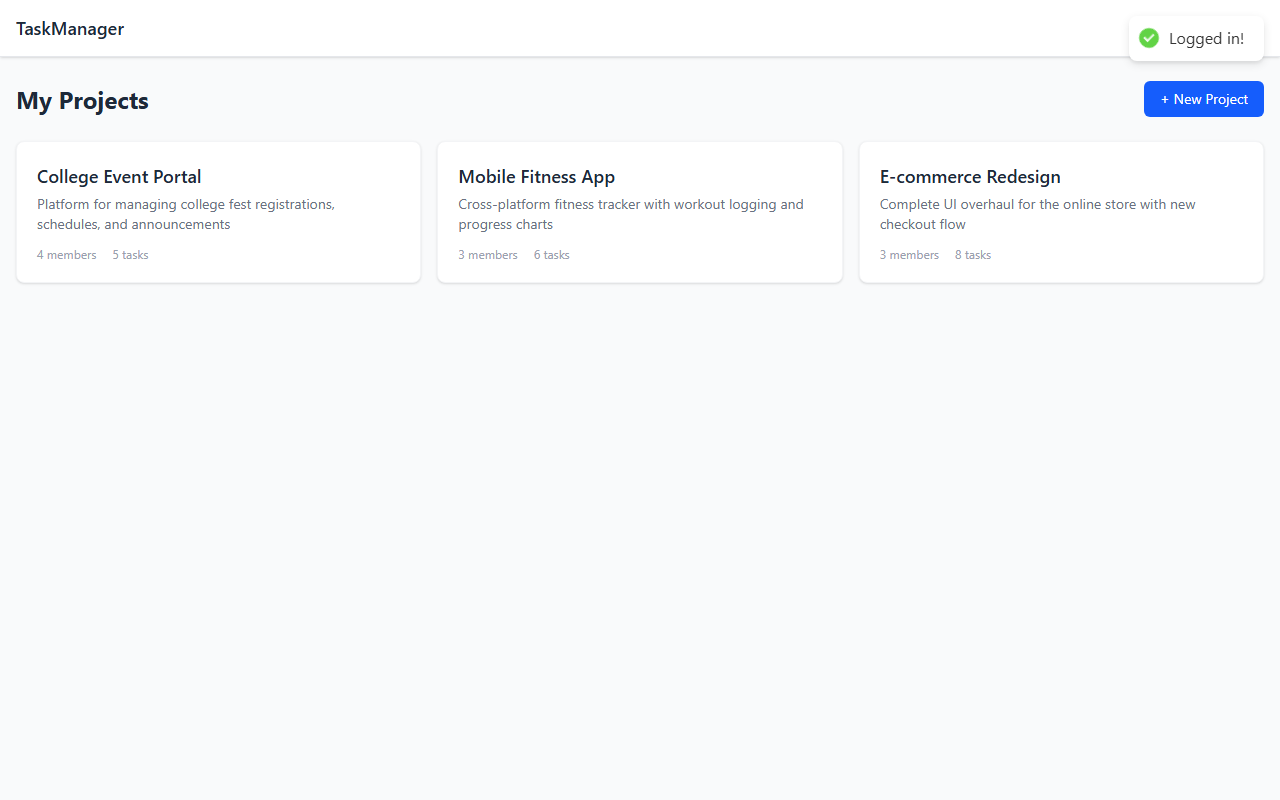
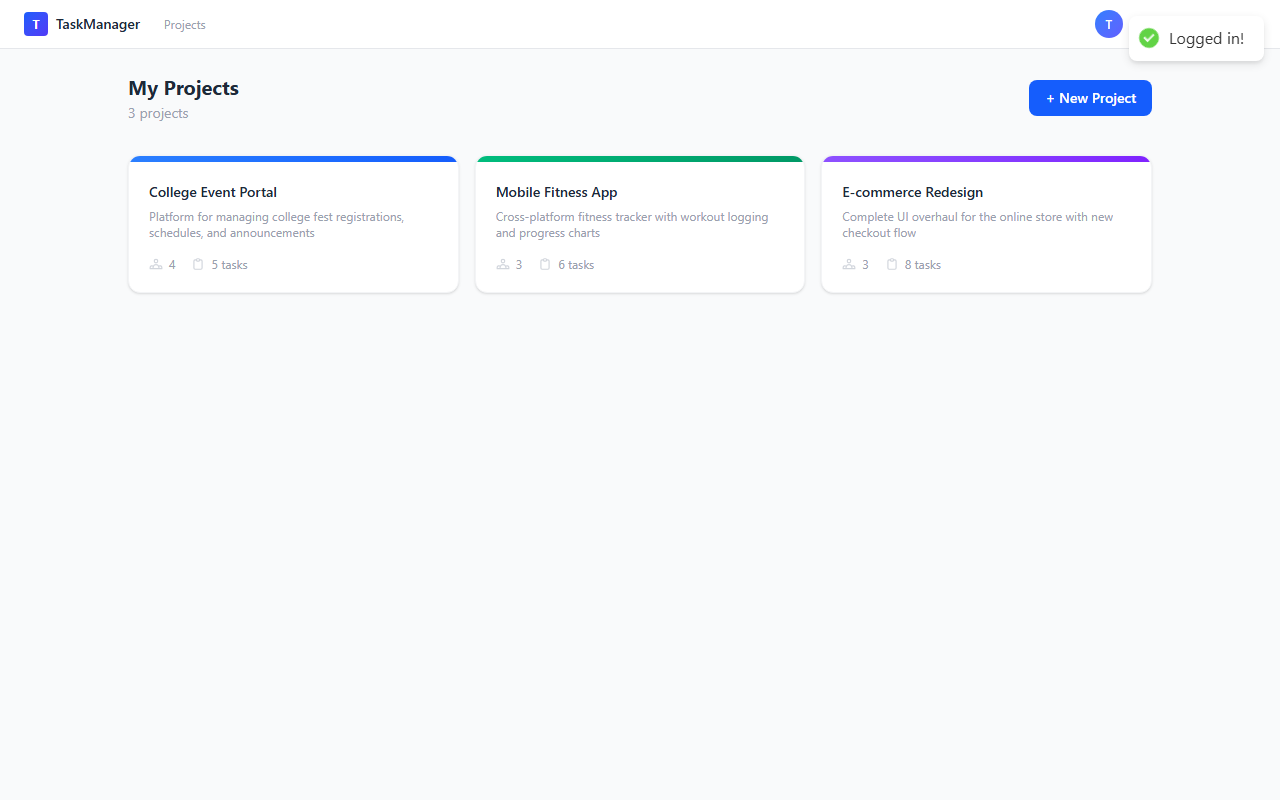
update screenshots and add drag and drop gif to readme

diff --git a/README.md b/README.md
@@ -17,7 +17,12 @@ A full-stack collaborative task management web application where users can creat
 ### Task Board
 ![Board](screenshots/04-board.png)
 
-### Task Creation Modal
+### Drag and Drop
+Tasks can be dragged between columns to update their status:
+
+![Drag and Drop](screenshots/drag-and-drop.gif)
+
+### Task Creation
 ![Task Modal](screenshots/06-task-modal.png)
 
 ### Member Management
